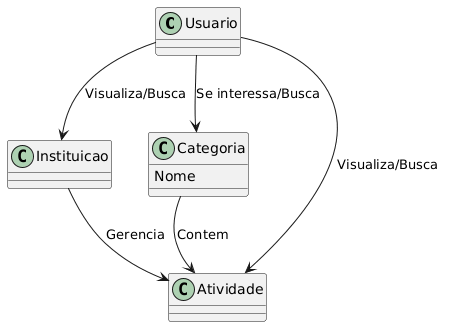
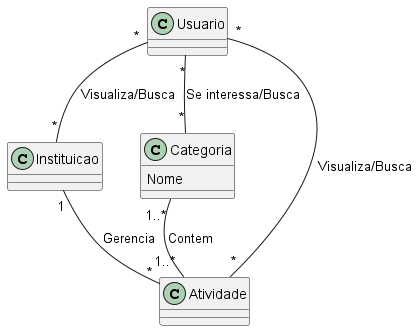
Update all diagrams and Upload wireframes

Changed region(s): [[0.0, 0.0302, 0.9952, 0.997], [0.622, 0.1511, 0.7153, 0.2417]]

diff --git a/Relatorios e Apresentacoes/Modelagem_Images.md b/Relatorios e Apresentacoes/Modelagem_Images.md
@@ -19,3 +19,25 @@
 ## Diagrama de Pacotes
 
 ![Diagrama de Implantação](../Modelagem/Outputs(Imagens)/Diagrama_de_pacotes.png)
+
+# Wireframes de Baixa Fidelidade
+
+## Página de LogIn
+
+![Login](../Modelagem/Wireframes/Login.png)
+
+## Quiz de LogIn
+### Para personalizar o perfil do usuário:
+
+![Quiz](../Modelagem/Wireframes/Quiz.png)
+![Quiz](../Modelagem/Wireframes/Quiz2.png)
+
+## Feed
+### Página de busca e resultados:
+
+![Quiz](../Modelagem/Wireframes/Feed.png)
+
+## Detalhes das atividades
+### Cada atividade terá sua própria página de atividades:
+
+![Quiz](../Modelagem/Wireframes/Detalhes_Atvdd.png)
